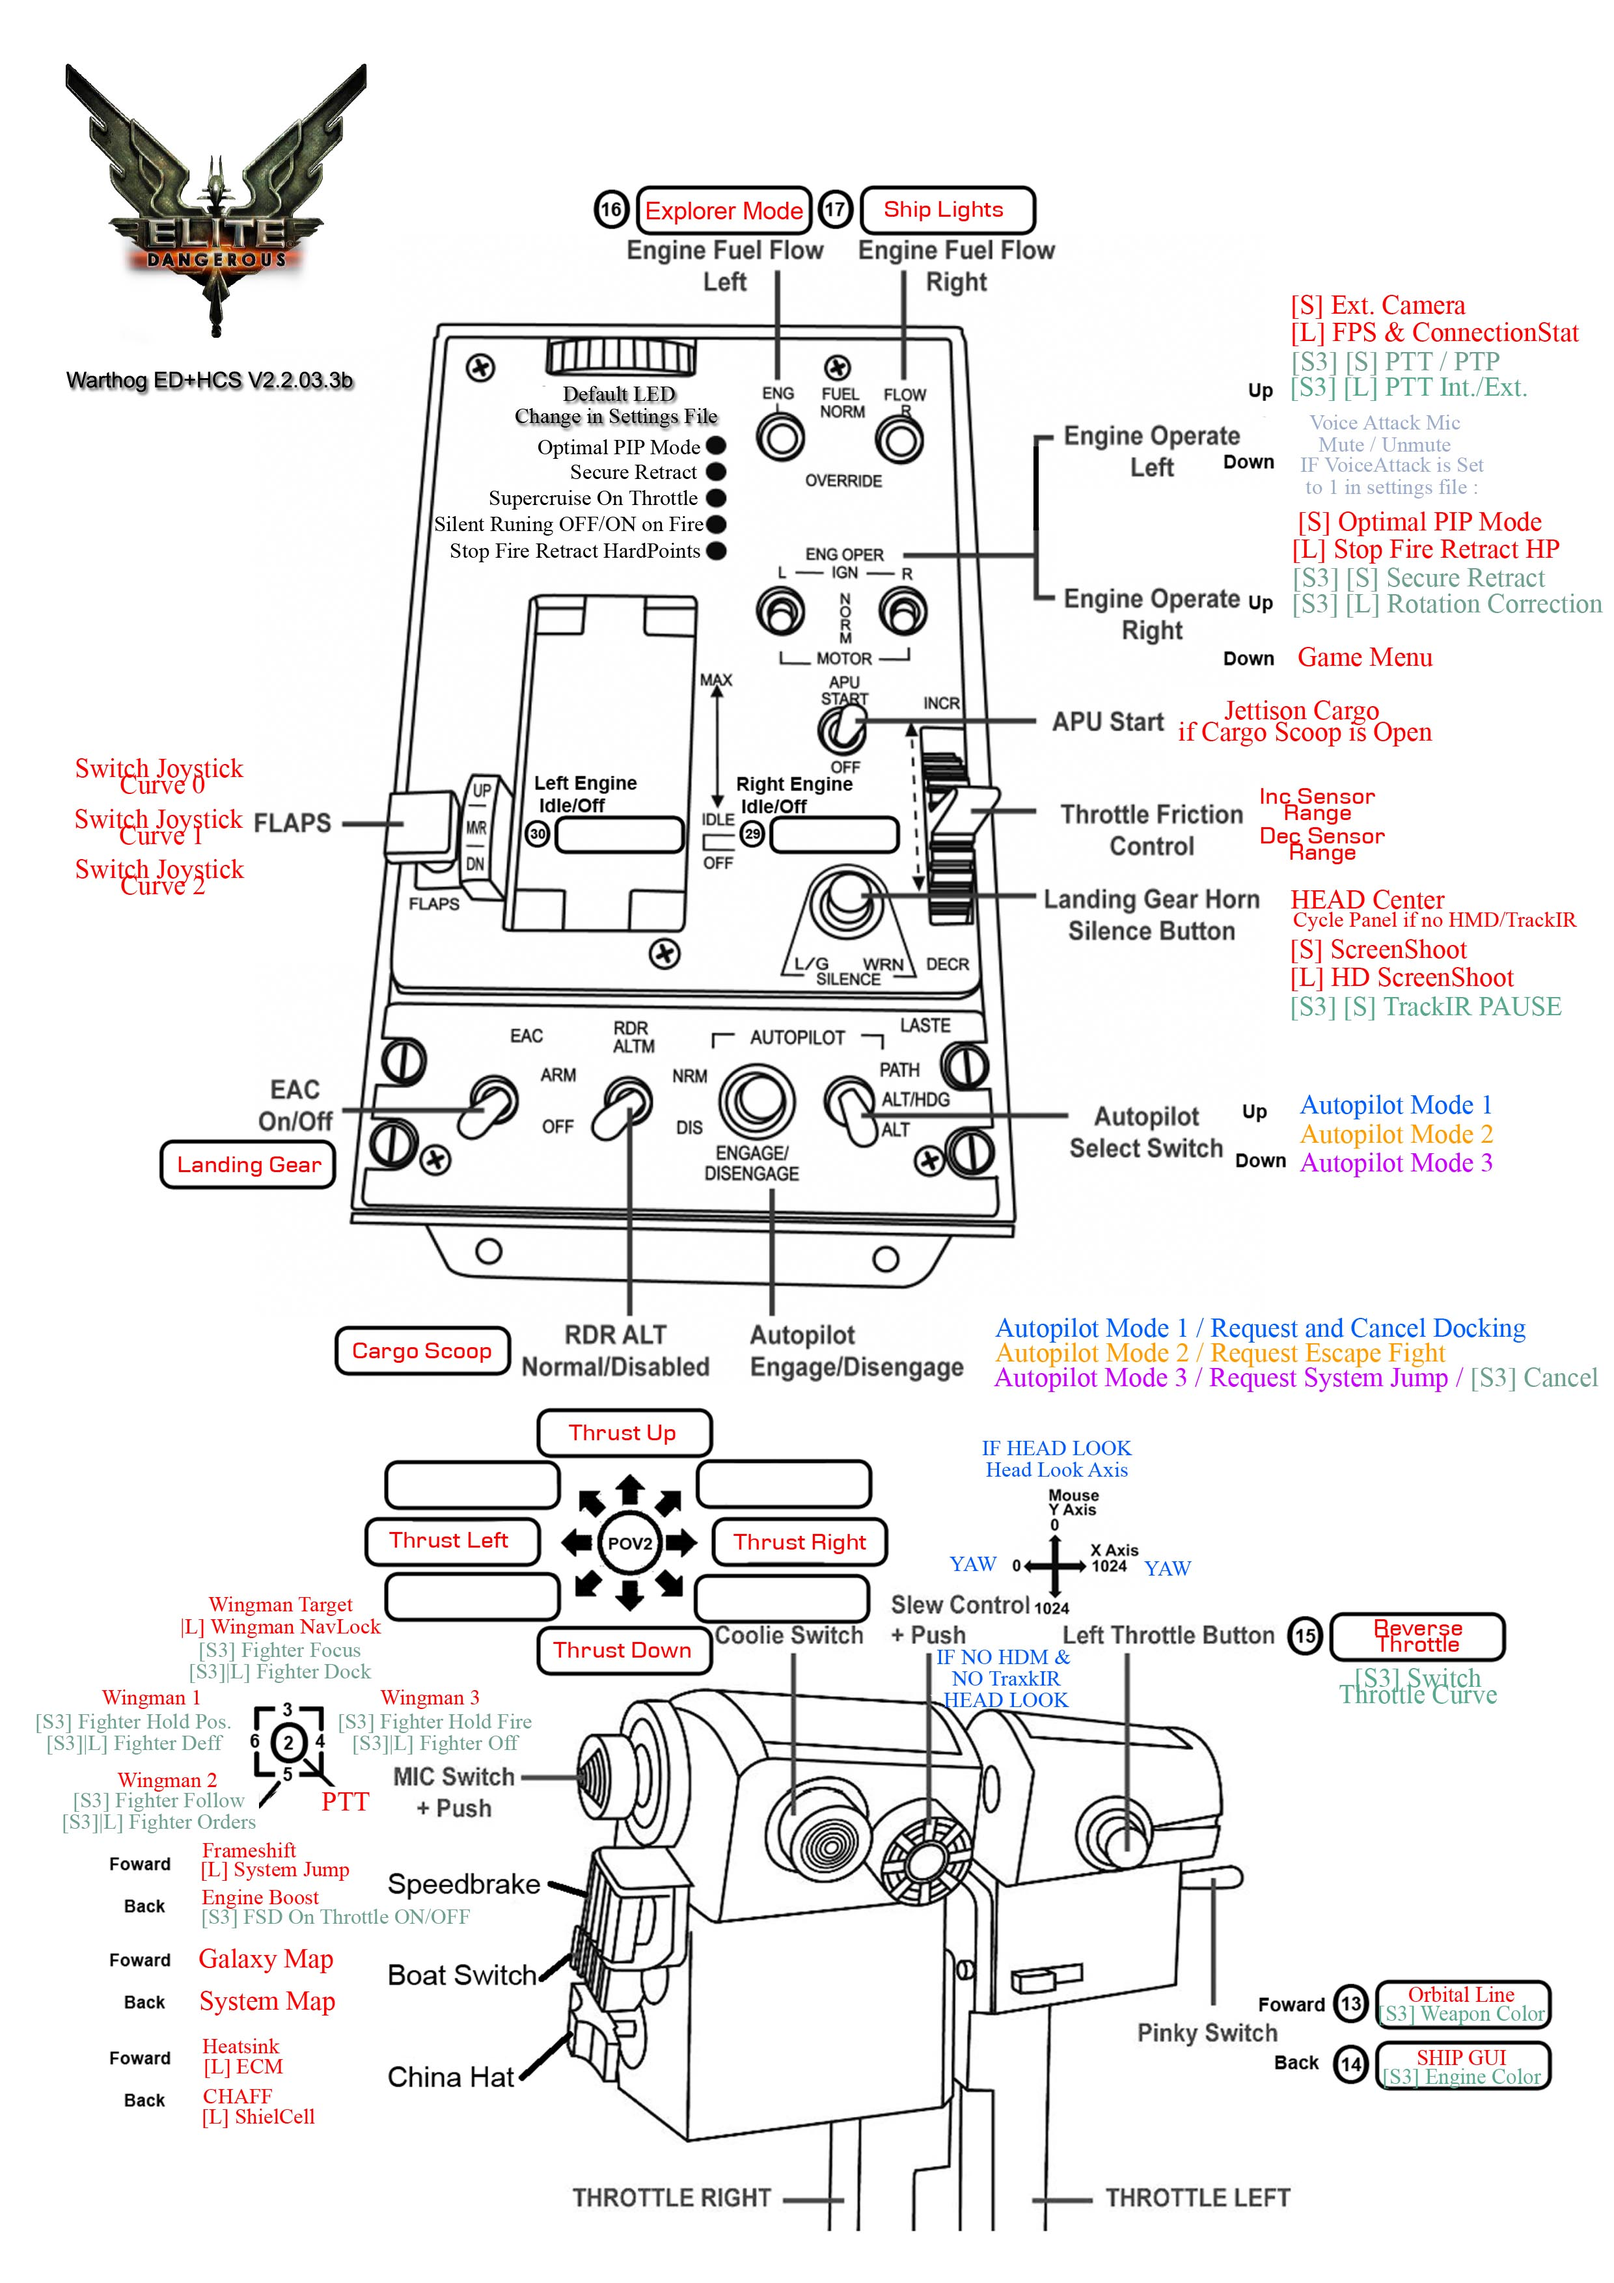
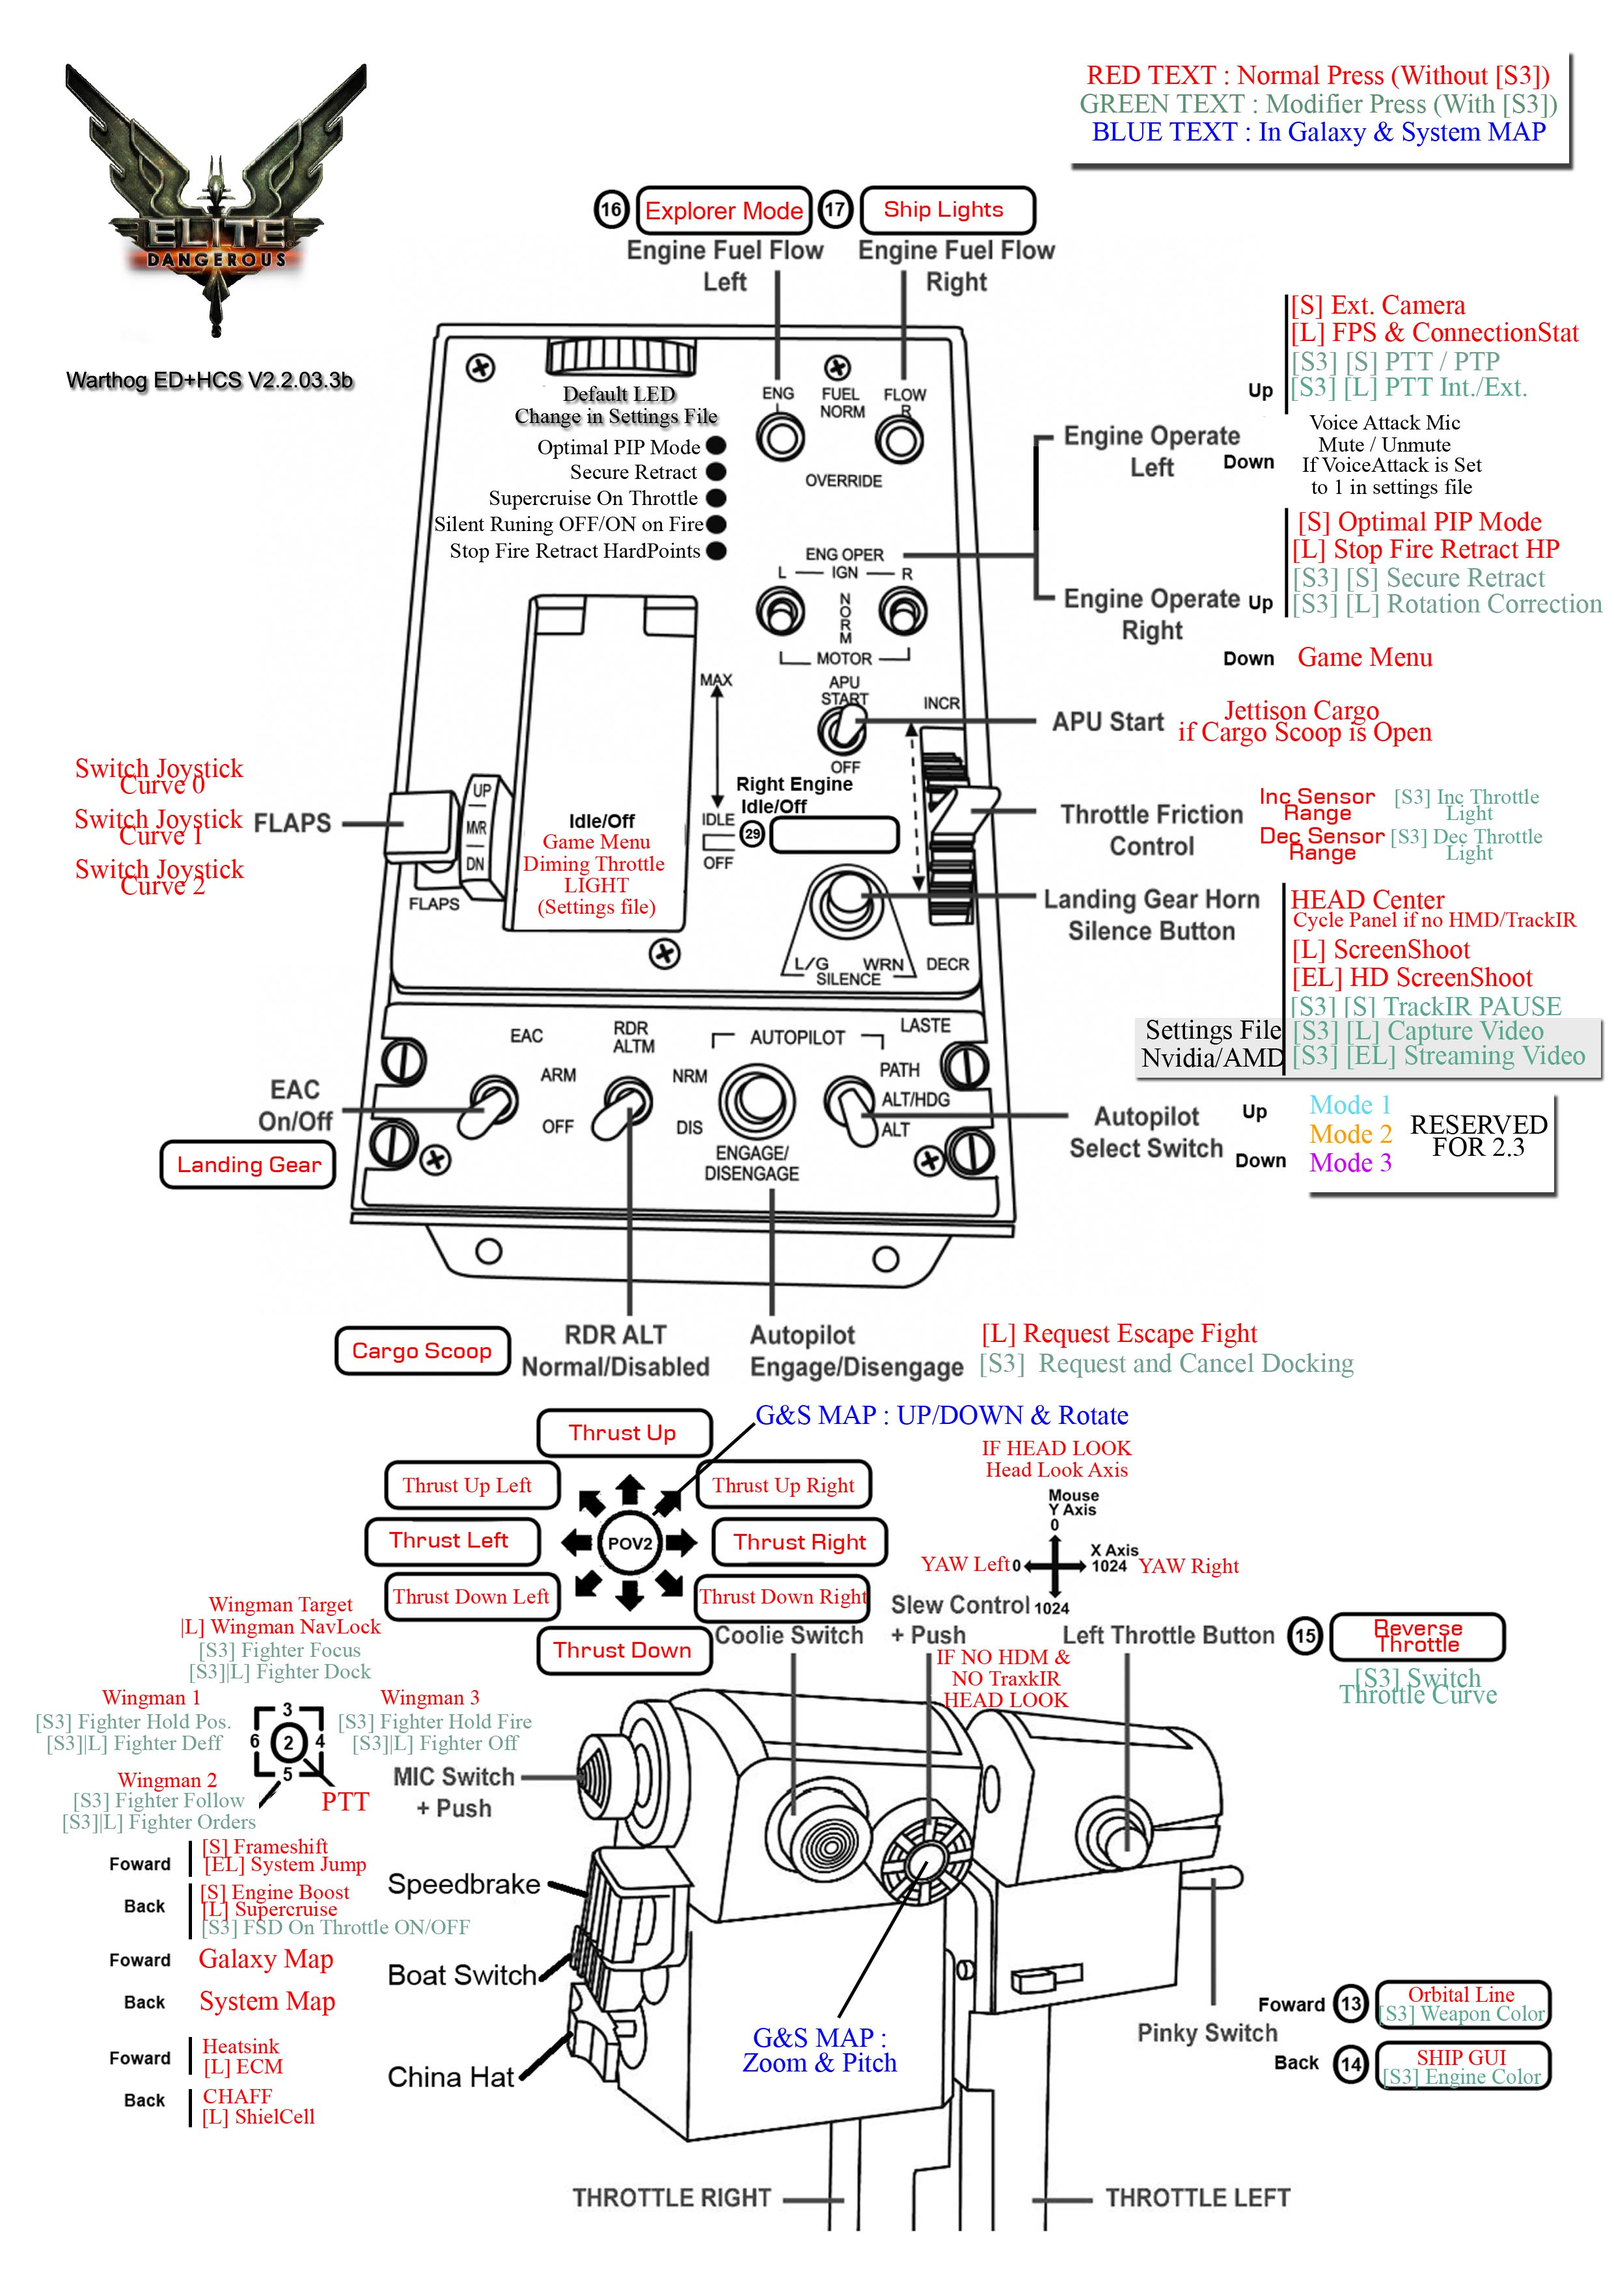
Add Video Capture & Streaming
Add Nvidia Shadowplay and AMD Relive Video Capture and Streaming
Support.
Add Steam Screenshot Support.

Change Throttle Chart : Autoplilot Engage/Disengage Button, Autopilot
Select Switch, Landing Gear Horn Silence Button & Fix/Add some typo

diff --git a/README.md b/README.md
@@ -1,4 +1,4 @@
-# Elite Dangerous Warthog Target Script (HCS Keys Binding) 2.2.03.3b 2017/01/27
+# Elite Dangerous Warthog Target Script (HCS Keys Binding) 2.2.03.3b 2017/01/30
 
 ![ED LOGO](http://edassets.org/img/preview/elite-dangerous-logo_grey.png)
 
@@ -34,20 +34,23 @@ That goes for LGears and CScoop to. You can Switch the states without sending ga
 The Optimal PIP Mode, make Backup of Previous engaged PIP. By Default it will return to //2 SYS 2 ENG 2 WEP (0) if you don't make change before deploying Hardpoints or Fire after the game launch. 
 I suggest, when you launch the game, to make one change to PIP before deploying hardpoints and another before fire, so the script can backup those value.
 
+Because of all this tracking states in the script, __HCS User should use L.Gears, C.Scoop, Hardpoints, and PIP on HOTAS__. Other commands should be OK to use via HCS
 
 ### FEATURES:
 
 - [ ] Support MFD (2), Rudders and T.Flight rudders (NOT TESTED YET)
-- [x] HMD / TrackIR Option for Some Function : Head Reset, Pause (TrackIr), Led Intensity
+- [x] HMD / TrackIR Option for Some Function : Head Reset, Pause (TrackIr), Led Intensity. (Setup In Settings File)
 - [ ] Easy Switch resest On The Fly for Landing Gear, Cargo Scoop, Light, Hardpoints, Rotational Correction (if misaligned with game states just switch (it's should work) Or Press S3 + Switch)
 - [x] Easy Debug Msg OFF (Debugmode OFF (0) Or ON (1) In Settings File)
-- [x] Supercruise On Throttle when boosting if throttle at 100%. Can be switched On or Off On The Fly
+- [x] Supercruise On Throttle when boosting if throttle at 100%. (Can be switched On or Off On The Fly)
 - [x] Game Menu Up on Idle Throttle states. (Setup In Settings File)
 - [x] Secure Retract Mode : Automatic Retract of Hardpoint Gear and cargo  when engaging Escape Fight Mode, Supercruise, FrameshiftDrive,...
 - [x] Dual stage trigger Combined Fire on Triger 1 to allow combined Primary & Secondary fire or for the trigger to be separated to Primary fire only. Can be switched On or Off On The Fly
 - [x] Support [Toggle] & [Hold] mode for Game Settings : Reverse Throttle, Flight Assist & Silent Runing (option in Settings File Default is Reverse Throttle [HOLD],  Flight Assist [HOLD], Silent Runing [TOGGLE]. If you want to change modify in ED AND in the setting file xxxGameMode)
 - [x] Enhanced Functions Like Game Menu (Set Speed to 0, put silence runing off, PIP to tank then open game menu...when game menu is closed, restore previous PIP Mode...), System jump (target next system in route, Retract hardpoint if needed, Frameshift drive, then in Warp, set speed to 0 (safe next system entrance) ...More advanced functions will come later
-- [ ] Rotate Joystick Axis 15deg CCW to account for center Joystick mounting position (CenterJoystickMount option in settings file)
+- [ ] Rotate Joystick Axis to account for center Joystick mounting position (CenterJoystickMount & JoystickAngle options in Settings file)
+- [ ] Nvidia Shadowplay and AMD Relive Video Capture and Streaming Support. (Setup In Settings File)
+- [ ] Steam Screenshot Support. (Setup In Settings File)
 
 
 ### LED:
